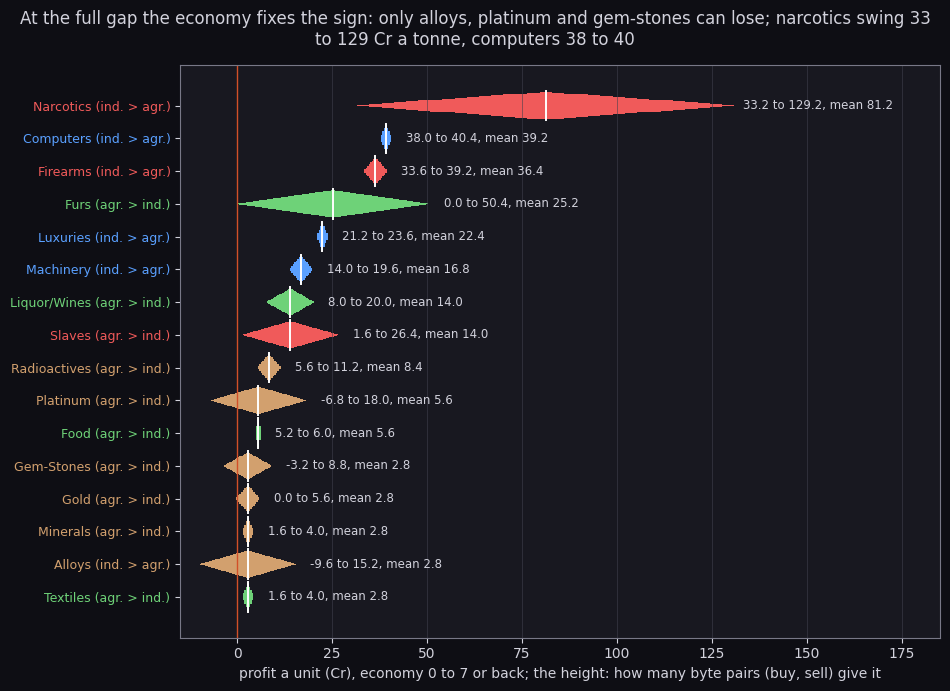
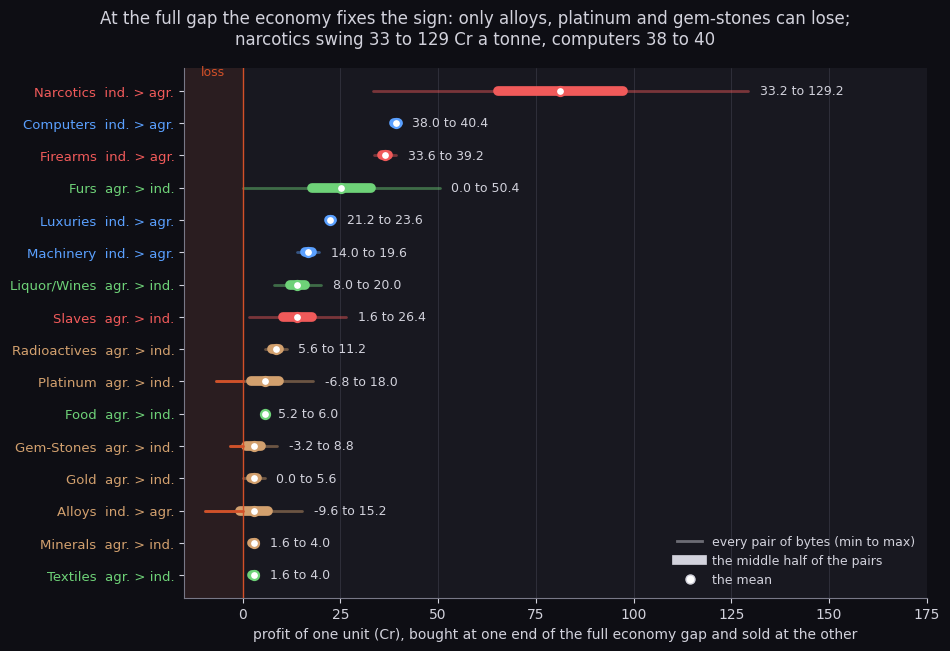
elite: the trading guide's swing chart as range bars (range, middle half, mean) instead of violin shapes

diff --git a/games/elite/tools/fig_trading.py b/games/elite/tools/fig_trading.py
@@ -259,34 +259,47 @@ def map_():
 
 
 def swing():
-    """each commodity's profit a unit at the full gap over every pair of bytes (buy, sell)"""
-    fig, ax = P.figure(9.6, 7.0)
-    order = sorted(range(16), key=lambda i: abs(T.FACTOR[i]) * 7 * 4)
-    for r, i in enumerate(order):
+    """each commodity's profit a unit at the full gap over every pair of bytes (buy, sell): the whole range, the
+    middle half and the mean, as a range bar a row"""
+    fig, ax = P.figure(9.6, 6.6)
+    rows = []
+    for i in range(16):
         ea, eb = (0, 7) if T.FACTOR[i] > 0 else (7, 0)
         buy = np.array([T.market(ea, f)[i][0] for f in T.FLS])
         sell = np.array([T.market(eb, f)[i][0] for f in T.FLS])
         prof = (sell[None, :] - buy[:, None]).ravel() / 10
-        vals, counts = np.unique(prof, return_counts=True)
-        w = counts / counts.max() * 0.42
+        rows.append((prof.mean(), i, prof))
+    rows.sort(key=lambda r: r[0])
+    ax.axvspan(-15, 0, color=P.HOT, alpha=0.10, lw=0)
+    ax.text(-7.5, len(rows) - 0.4, 'loss', ha='center', va='center', fontsize=9, color=P.HOT)
+    for r, (m, i, prof) in enumerate(rows):
         c = colour(i)
-        step = min(np.diff(vals)) if len(vals) > 1 else 0.4
-        for v, h in zip(vals, w):
-            ax.add_patch(plt.Rectangle((v - step / 2, r - h), step, 2 * h, color=c, lw=0))
-        m = prof.mean()
-        ax.plot([m, m], [r - 0.45, r + 0.45], color='white', lw=1.4)
-        ax.text(prof.max() + 4, r, '%s to %s, mean %.1f' % (cr(prof.min() * 10), cr(prof.max() * 10), m),
-                va='center', fontsize=8.5, color=P.TEXT)
+        lo, hi = prof.min(), prof.max()
+        q1, q3 = np.percentile(prof, [25, 75])
+        ax.plot([lo, hi], [r, r], color=c, lw=2.0, alpha=0.45, solid_capstyle='round')
+        ax.plot([q1, q3], [r, r], color=c, lw=7.0, solid_capstyle='round')
+        if lo < 0:
+            ax.plot([lo, 0], [r, r], color=P.HOT, lw=2.0, solid_capstyle='round')
+        ax.plot([m], [r], 'o', ms=6.5, mfc='white', mec=c, mew=1.6, zorder=5)
+        ax.text(hi + 3, r, '%s to %s' % (cr(lo * 10), cr(hi * 10)), va='center', fontsize=9, color=P.TEXT)
     ax.axvline(0, color=P.HOT, lw=1)
-    ax.set_yticks(range(16))
-    ax.set_yticklabels(['%s (%s)' % (T.GOODS[i], 'agr. > ind.' if T.FACTOR[i] < 0 else 'ind. > agr.')
-                        for i in order], fontsize=9)
+    ax.set_yticks(range(len(rows)))
+    ax.set_yticklabels(['%s  %s' % (T.GOODS[i], 'agr. > ind.' if T.FACTOR[i] < 0 else 'ind. > agr.')
+                        for _, i, _ in rows], fontsize=9.5)
     for k, lab in enumerate(ax.get_yticklabels()):
-        lab.set_color(colour(order[k]))
-    ax.set_xlim(-15, 185)
-    ax.set_xlabel('profit a unit (Cr), economy 0 to 7 or back; the height: how many byte pairs (buy, sell) give it')
+        lab.set_color(colour(rows[k][1]))
+    ax.set_ylim(-0.7, len(rows) - 0.3)
+    ax.set_xlim(-15, 175)
+    ax.set_xlabel('profit of one unit (Cr), bought at one end of the full economy gap and sold at the other')
     ax.grid(True, axis='x', lw=0.4)
-    fig.suptitle('At the full gap the economy fixes the sign: only alloys, platinum and gem-stones can lose; '
+    for sp in ('top', 'right'):
+        ax.spines[sp].set_visible(False)
+    from matplotlib.lines import Line2D
+    ax.legend(handles=[Line2D([], [], color=P.TEXT, lw=2, alpha=0.45, label='every pair of bytes (min to max)'),
+                       Line2D([], [], color=P.TEXT, lw=7, label='the middle half of the pairs'),
+                       Line2D([], [], marker='o', ls='', ms=6.5, mfc='white', mec=P.TEXT, label='the mean')],
+              loc='lower right', fontsize=9, frameon=False)
+    fig.suptitle('At the full gap the economy fixes the sign: only alloys, platinum and gem-stones can lose;\n'
                  'narcotics swing 33 to 129 Cr a tonne, computers 38 to 40', fontsize=12)
     P.save(fig, os.path.join(OUT, 'swing.png'))
 

diff --git a/games/elite/docs/trading-guide.md b/games/elite/docs/trading-guide.md
@@ -208,9 +208,9 @@ platinum, gem-stones; **high-tech** luxuries, computers, machinery; **illegal** 
 *Only alloys, platinum and gem-stones can lose money at the full gap; narcotics earns 33 to 129 Cr a tonne.*
 
 **How to read it.** One row a commodity, coloured by scheme, sorted by the mean, with the direction that pays
-(ind. > agr. or back). Each shape is the spread of the profit of one unit over all 255 x 255 pairs of the buying
-and the selling byte: its height is how many pairs give that profit, the white tick is the mean. The range and the
-mean are written at the right. Anything left of the red zero line is a loss. Drawn by `python3 tools/fig_trading.py swing`.
+(ind. > agr. or back). The thin line runs from the worst to the best profit of one unit over all 255 x 255 pairs of
+the buying and the selling byte; the thick part holds the middle half of those pairs; the white dot is the mean. The
+range is written at the right. A part left of the zero line, in the shaded loss zone, is drawn red. Drawn by `python3 tools/fig_trading.py swing`.
 
 ### Scheme 1: the honest farmer (agricultural)
 
